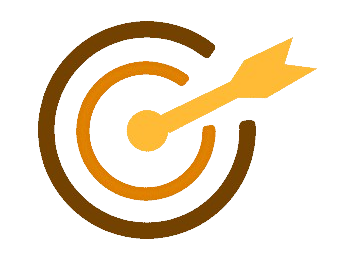
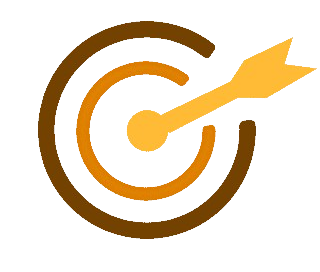
changes on title alignment in mobile screen

Changed region(s): [[0.0938, 0.0588, 1.0, 0.8824]]

diff --git a/index.html b/index.html
@@ -491,7 +491,7 @@
                             <div class="about-img-wrap p-3">
                                 <div class="row">
                                     <div class="col-lg-6">
-                                        <div class="about-img about-img-big" >
+                                        <div class="about-img about-img-big text-center" >
                                             <img src="assets/images/vision/vision.png" width=""
                                                 class="img-fluid rounded-3" height="" alt="">
                                         </div>
@@ -525,7 +525,7 @@
                             <div class="about-img-wrap p-3">
                                 <div class="row">
                                     <div class="col-lg-6">
-                                        <div class="about-img about-img-big mt-0" >
+                                        <div class="about-img about-img-big text-center" >
                                             <img src="assets/images/mission/mission.png" width=""
                                                 class="img-fluid rounded-3" height="" alt="">
                                         </div>
